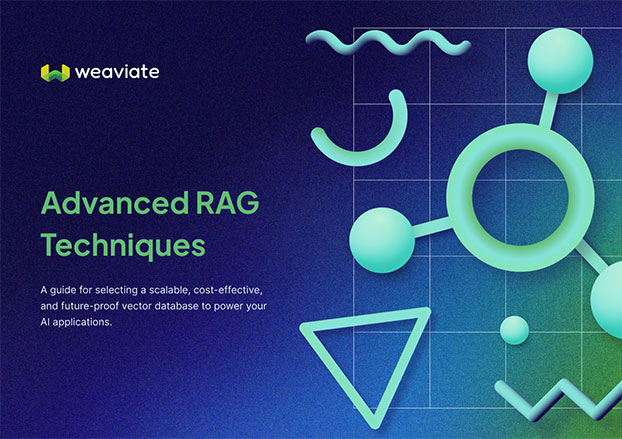
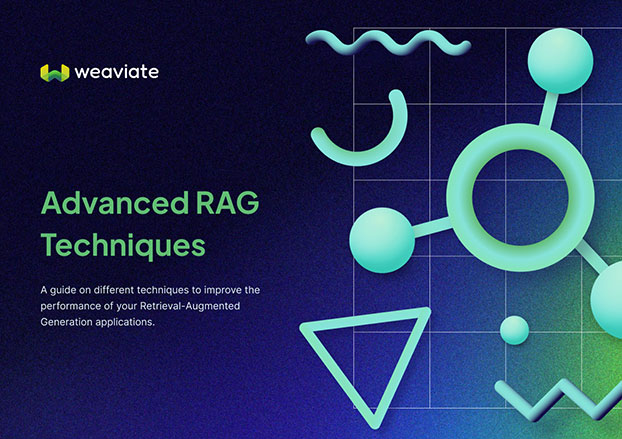
Gate Update (#2935)
* Update

* Resize image

diff --git a/src/components/Signup/RAG/index.jsx b/src/components/Signup/RAG/index.jsx
@@ -36,8 +36,8 @@ export default function Introduction() {
               <span>GUIDE</span>
               <h1 classname={styles.headerTag}>Advanced RAG Techniques</h1>
               <span className={styles.subTitle}>
-                A guide on different techniques to improve the performance of
-                your Retrieval-Augmented Generation applications.
+                A guide to help improve the performance of your
+                Retrieval-Augmented Generation applications.
               </span>
               <div className={styles.signUp}>
                 <div className={styles.signUpBox}>
